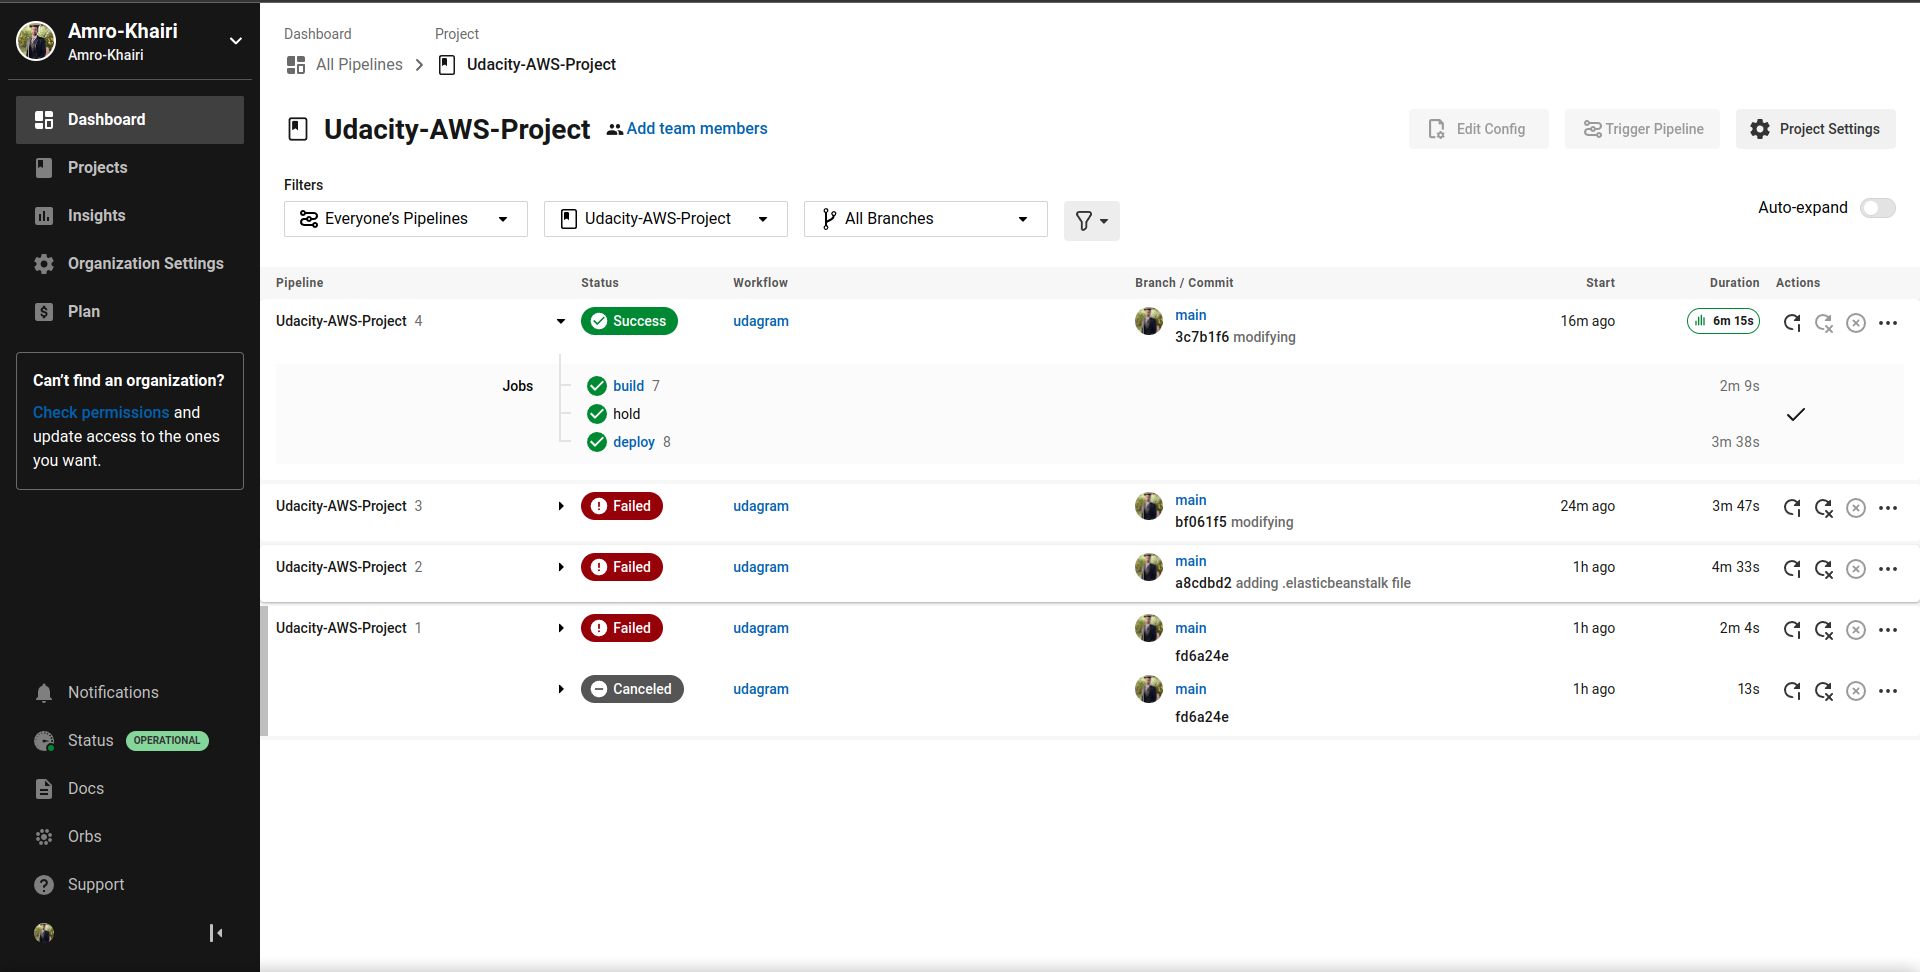
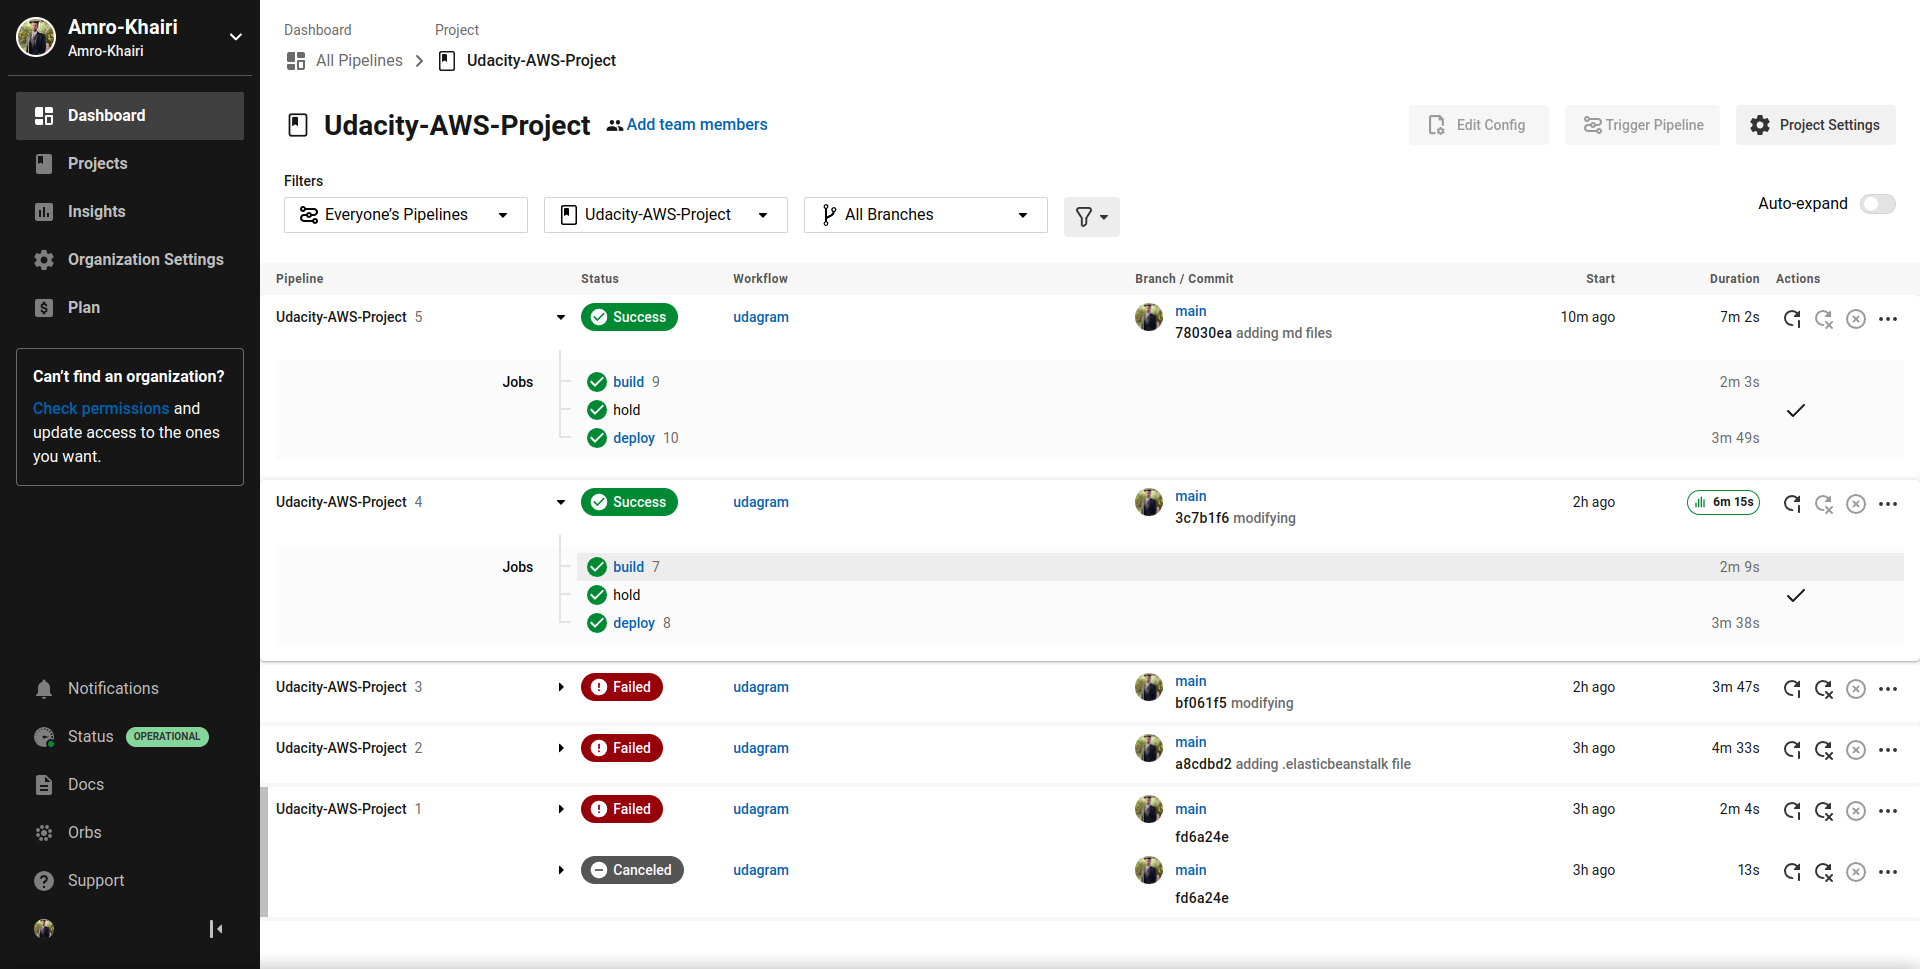
finalizing docs folder

diff --git a/docs/dependencies.md b/docs/dependencies.md
@@ -1,0 +1,134 @@
+# Application Dependencies
+
+## Udagram API Backend
+
+- AWS RDS Postgres database instance
+- AWS Elastic Beanstalk environment
+- AWS Elastic Beanstalk CLI
+
+```
+{
+  "name": "udagram-api",
+  "version": "2.0.0",
+  "description": "",
+  "main": "src/server.ts",
+  "scripts": {
+    "start": "node server.js || node www/server.js",
+    "tsc": "npx tsc",
+    "dev": "npx ts-node-dev --respawn --transpile-only ./src/server.ts",
+    "prod": "npx tsc && node ./www/server.js",
+    "clean": "rm -rf www/ || true",
+    "deploy": "npm run build && eb deploy udacity-aws-project --profile default",
+    "build": "npm install . && npm run clean && tsc && cp -rf src/config www/config && cp -R .elasticbeanstalk www/.elasticbeanstalk && cp .npmrc www/.npmrc && cp package.json www/package.json && cd www && zip -r Archive.zip . && cd ..",
+    "test": "echo \"Error: no test specified\" && exit 1"
+  },
+  "keywords": [],
+  "author": "Gabriel Ruttner",
+  "license": "ISC",
+  "dependencies": {
+    "@types/bcryptjs": "2.4.2",
+    "@types/jsonwebtoken": "^8.3.2",
+    "aws-sdk": "^2.429.0",
+    "bcryptjs": "2.4.3",
+    "body-parser": "^1.18.3",
+    "cors": "^2.8.5",
+    "dotenv": "^8.2.0",
+    "email-validator": "^2.0.4",
+    "express": "^4.16.4",
+    "jsonwebtoken": "^8.5.1",
+    "pg": "^8.7.1",
+    "reflect-metadata": "^0.1.13",
+    "sequelize": "^5.21.4",
+    "sequelize-typescript": "^0.6.9"
+  },
+  "devDependencies": {
+    "@types/bluebird": "^3.5.26",
+    "@types/cors": "^2.8.6",
+    "@types/express": "^4.16.1",
+    "@types/node": "^11.11.6",
+    "@types/sequelize": "^4.27.44",
+    "@types/validator": "^10.9.0",
+    "@typescript-eslint/eslint-plugin": "^2.19.2",
+    "@typescript-eslint/parser": "^2.19.2",
+    "chai": "^4.2.0",
+    "chai-http": "^4.2.1",
+    "eslint": "^6.8.0",
+    "eslint-config-google": "^0.14.0",
+    "mocha": "^6.1.4",
+    "ts-node-dev": "^1.0.0-pre.32",
+    "typescript": "^3.9.10"
+  }
+}
+
+
+```
+
+## Udagram UI Front-end
+
+- AWS CLI
+- AWS Simple Storage Service (S3) bucket
+
+```
+{
+  "name": "udagram-frontend",
+  "version": "0.0.1",
+  "author": "Ionic Framework",
+  "homepage": "https://ionicframework.com/",
+  "scripts": {
+    "ng": "ng",
+    "start": "ng serve",
+    "build": "ng build",
+    "deploy": "npm install -f && npm run build && chmod +x bin/deploy.sh && bin/deploy.sh",
+    "test": "ng test --watch=false",
+    "lint": "ng lint",
+    "e2e": "ng e2e"
+  },
+  "private": true,
+  "dependencies": {
+    "@angular/common": "^8.2.14",
+    "@angular/core": "^8.2.14",
+    "@angular/forms": "^8.2.14",
+    "@angular/http": "^7.2.16",
+    "@angular/platform-browser": "^8.2.14",
+    "@angular/platform-browser-dynamic": "^8.2.14",
+    "@angular/router": "^8.2.14",
+    "@ionic-native/core": "^5.0.0",
+    "@ionic-native/splash-screen": "^5.0.0",
+    "@ionic-native/status-bar": "^5.0.0",
+    "@ionic/angular": "^4.1.0",
+    "core-js": "^2.5.4",
+    "rxjs": "~6.5.4",
+    "zone.js": "~0.9.1"
+  },
+  "devDependencies": {
+    "@angular-devkit/architect": "~0.12.3",
+    "@angular-devkit/build-angular": "^0.803.24",
+    "@angular-devkit/core": "~7.2.3",
+    "@angular-devkit/schematics": "~7.2.3",
+    "@angular/cli": "~8.3.25",
+    "@angular/compiler": "~8.2.14",
+    "@angular/compiler-cli": "~8.2.14",
+    "@angular/language-service": "~8.2.14",
+    "@ionic/angular-toolkit": "~1.4.0",
+    "@types/jasmine": "~2.8.8",
+    "@types/jasminewd2": "~2.0.3",
+    "@types/node": "~10.12.0",
+    "@typescript-eslint/eslint-plugin": "^2.20.0",
+    "@typescript-eslint/parser": "^2.20.0",
+    "codelyzer": "~4.5.0",
+    "jasmine-core": "~2.99.1",
+    "jasmine-spec-reporter": "~4.2.1",
+    "karma": "~3.1.4",
+    "karma-chrome-launcher": "~2.2.0",
+    "karma-coverage-istanbul-reporter": "~2.0.1",
+    "karma-jasmine": "~1.1.2",
+    "karma-jasmine-html-reporter": "^0.2.2",
+    "protractor": "~5.4.0",
+    "ts-node": "~8.0.0",
+    "tslint": "~5.12.0",
+    "typescript": "^3.5.3"
+  },
+  "description": "An Ionic project"
+}
+
+```

diff --git a/docs/pipleine_process.md b/docs/pipleine_process.md
@@ -1,0 +1,14 @@
+# CircleCI CI/CD Pipeline:
+
+When code is pushed to the main branch of the repository, CircleCI performs an automated build via a continuous integration pipeline:
+
+1.  Sets up the build environment
+2.  Installs the necessary tools to build and deploy
+3.  Checks out the code from the main branch of the repository
+4.  Installs the code dependencies for both the backend and front-end applications
+5.  Builds both backend and front-end applications
+
+Then it performs a continuous delivery:
+1.  Asks for human approval to deploy 
+2.  Deploys the backend API application to the AWS Elastic Beanstalk (EB) environment
+3.  Deploys the front-end UI application to the AWS Simple Storage Service (S3) bucket

diff --git a/README.md b/README.md
@@ -72,6 +72,6 @@
 
 ## Documentation
 
-Documentation about the architecture, infrastructure description, app dependencies, and the pipeline process are found inside the [docs](https://github.com/aml-fakhry/aws-deployment-process-project/tree/master/docs) folder.
+Documentation about the architecture, infrastructure description, app dependencies, and the pipeline process are found inside the [docs](https://github.com/Amro-Khairi/Udacity-AWS-Project/tree/main/docs) folder.
 
 ---

diff --git a/docs/infrastructure_overview.md b/docs/infrastructure_overview.md
@@ -1,0 +1,7 @@
+# Infrastructure Overview
+
+The Udagram full stack application is hosted on the Amazon Web Services Cloud with the following services:
+
+1.  AWS RDS - relational database service instance running PostgreSQL
+2.  AWS Elastic Beanstalk (EB) - scalable service hosting the API backend
+3.  AWS Simple Storage Service (S3) - scalable storage hosting the UI front-end
